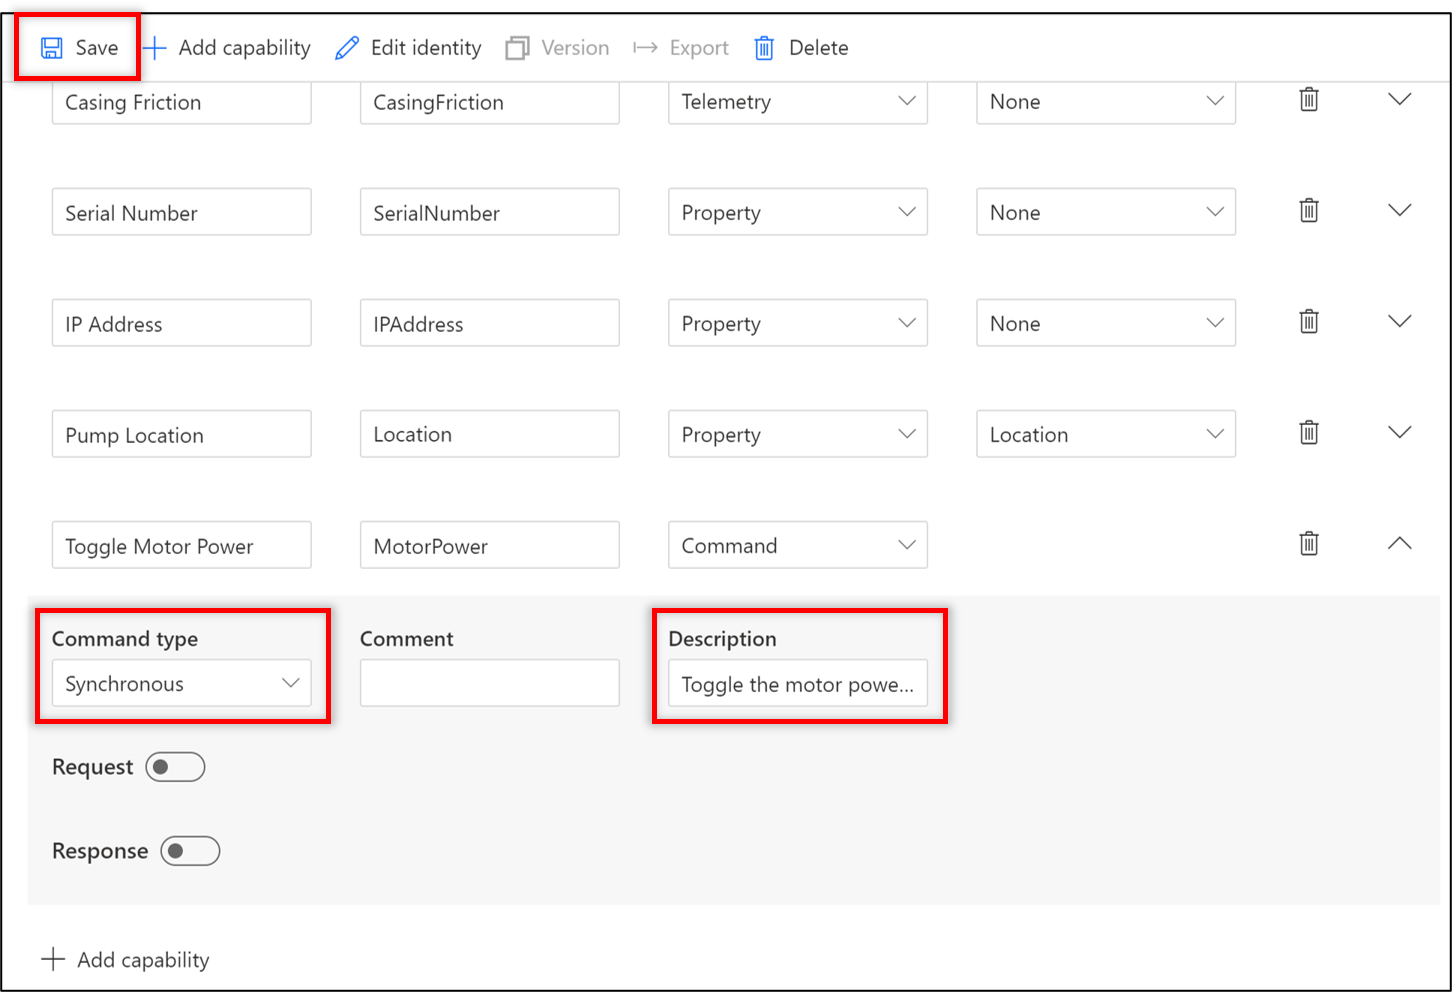
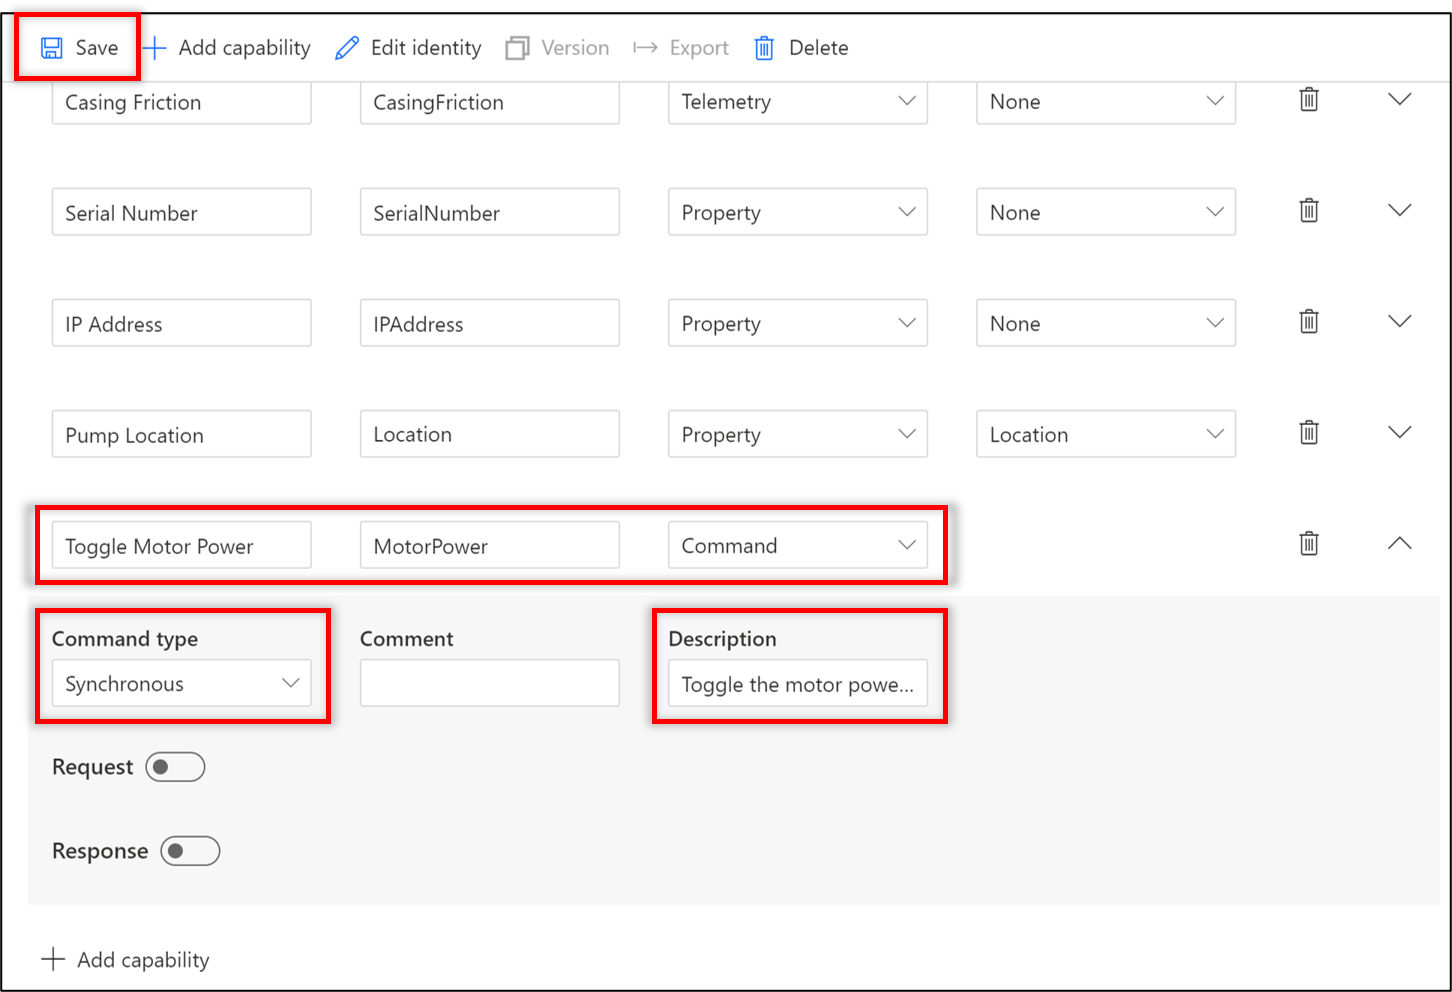
Updating documentation

Changed region(s): [[0.0, 0.5, 0.6818, 0.5938]]

diff --git a/Hands-on lab/HOL step-by step - Predictive Maintenance for remote field devices.md b/Hands-on lab/HOL step-by step - Predictive Maintenance for remote field devices.md
@@ -235,6 +235,10 @@ The telemetry being reported by the Fabrikam rod pumps are as follows, we will b
 
 11. Operators and field workers will want to be able to turn on and off the pumps remotely. In order to do this, we will define a toggle command. Add a capability and select _Command_. Leave the _Command_ type set to _Synchronous_ and update the _Description_ field, then click _Save_.
 
+    | Display Name    | Name     | Capability Type   | Command Type | Description |
+    | --------------- | -------------- | ------- | ---------- | ---------- |
+    | Toggle Motor Power      | MotorPower       | Command     | Synchronous          | Toggle the motor power on and off.        |
+
     ![The screen displays the state configuration options.](media/iot-central-command-definition.png "Power State")
 
 12. Now we can add some customization to our interface taking into account expected data ranges, and defining specific colors to represent each type of telemetry data received from the devices. For Pump Rate, Time Pump On, Motor Power, Motor Speed, and Casing Friction update the Min/Max values and decimal places according to the table below, and assign a unique color for each field. Then click _Save_.
